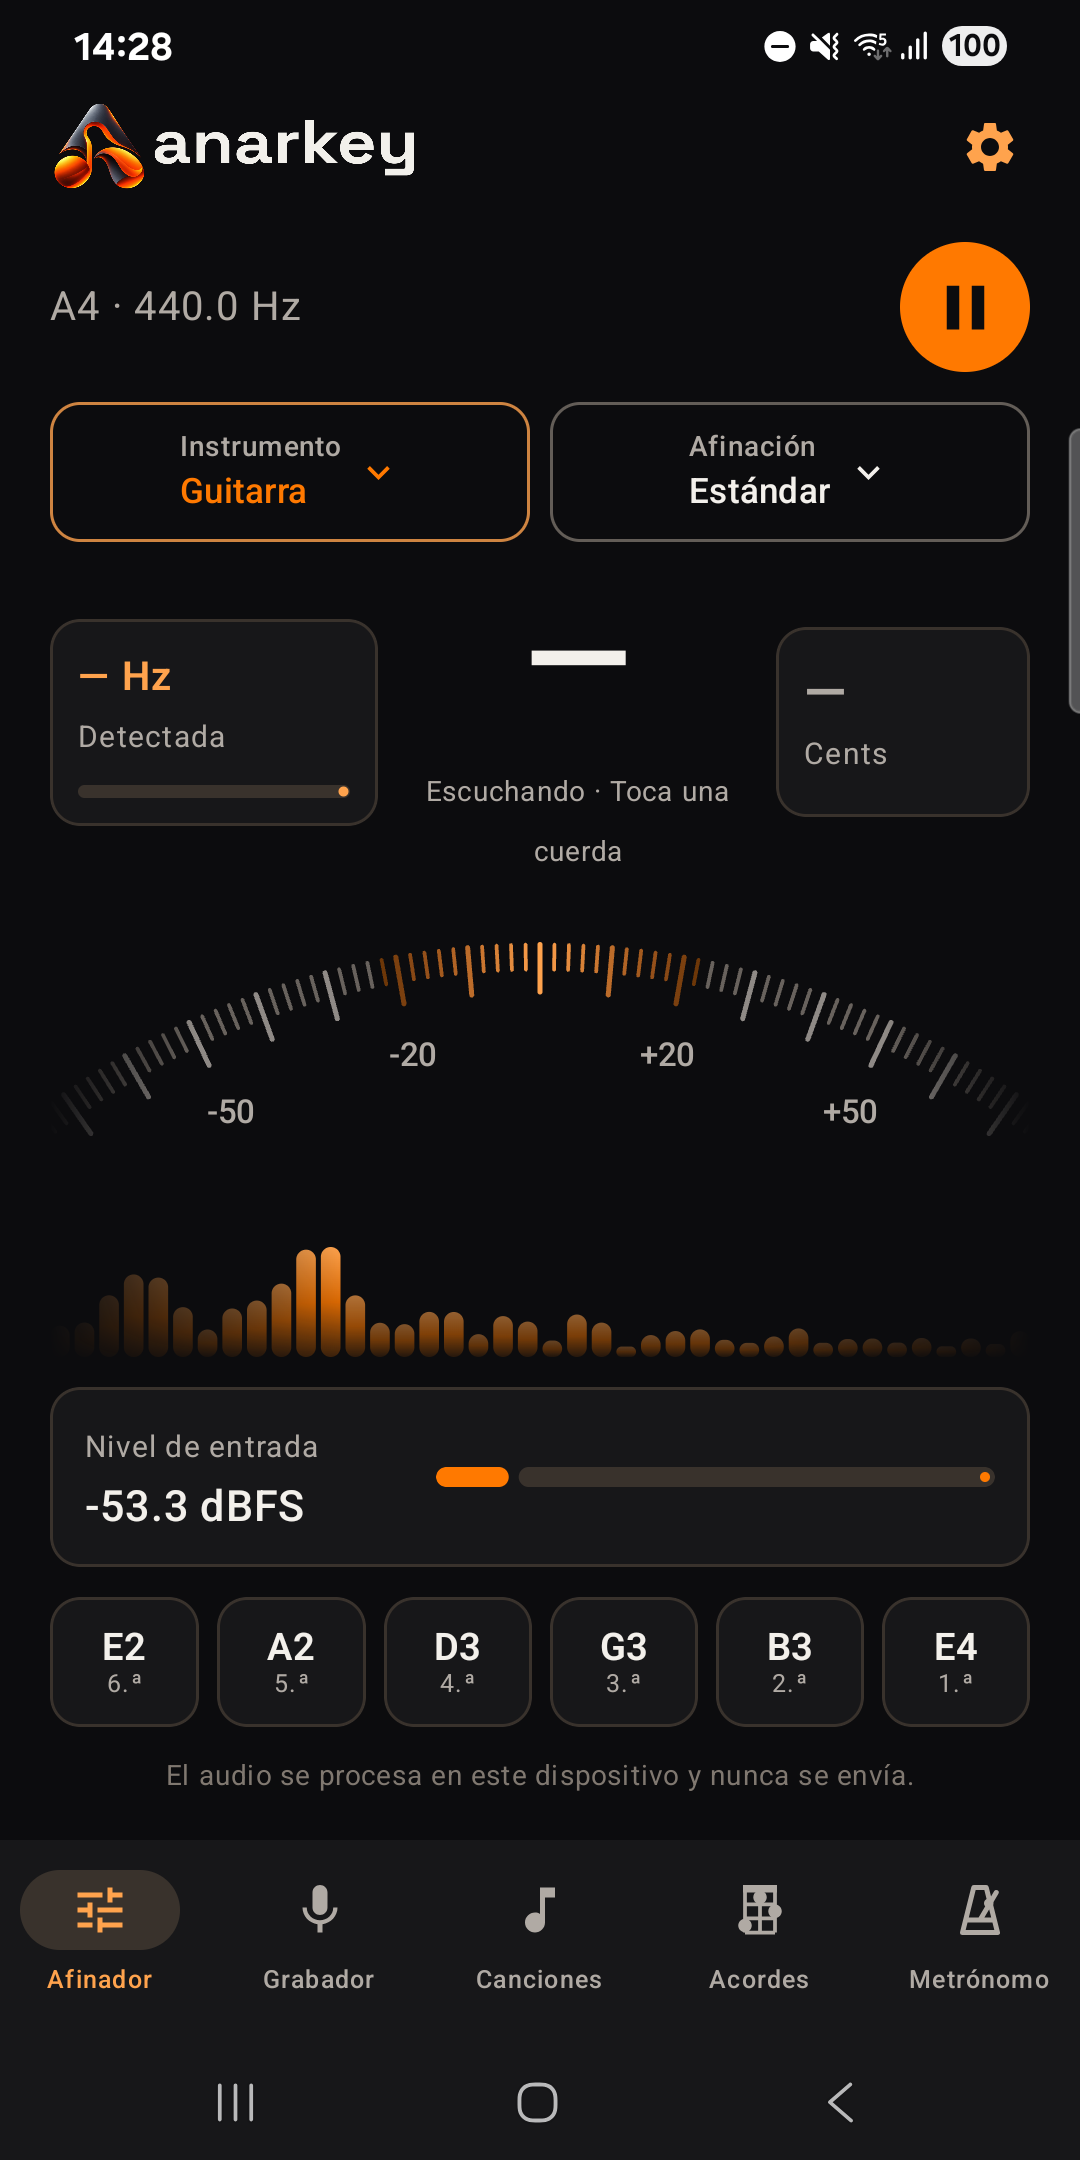
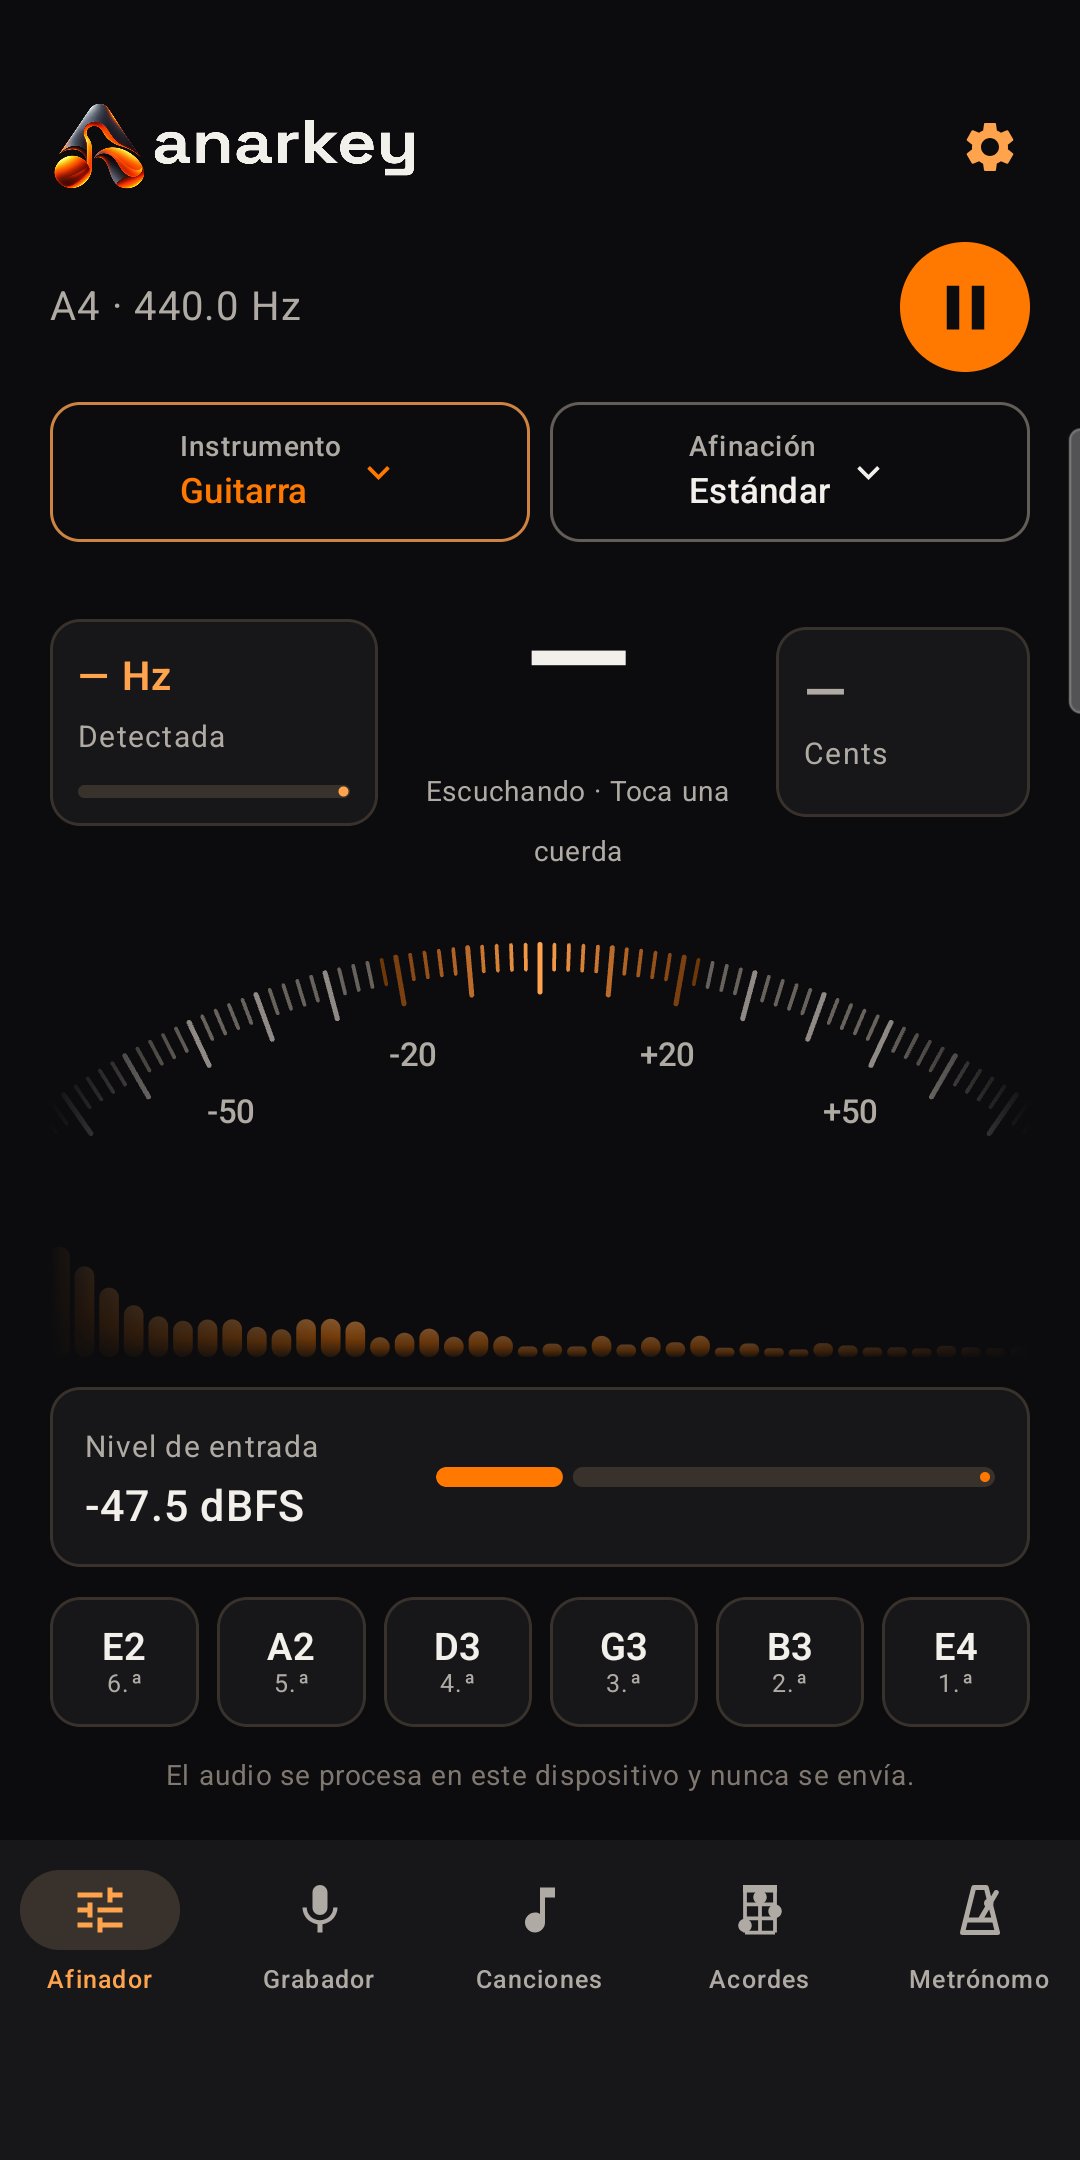
Replace store and website screenshots with a bilingual demo set of all sections

diff --git a/store/README.md b/store/README.md
@@ -17,7 +17,7 @@ in `docs/privacy/` and are served by GitHub Pages from the `docs/` folder of the
 |---|---|---|
 | `graphics/icon-512.png` | App icon | 512×512, 32-bit PNG |
 | `graphics/feature-graphic-1024x500.png` | Feature graphic | 1024×500, 24-bit PNG, no alpha |
-| `screenshots/es/*.png`, `screenshots/en/*.png` | Phone screenshots | 1080×2160 (2:1), 5 per language |
+| `screenshots/es/*.png`, `screenshots/en/*.png` | Phone screenshots (demo set) | 1080×2160 (2:1), 8 per language: home, tuner, chords, songs, song detail, recorder, recording, metronome |
 
 ## Texts (draft)
 
@@ -124,6 +124,17 @@ the release build. Upload them (for example as unlisted videos) and paste the li
 ## How the screenshots were taken
 
 Google rejects screenshots whose long side is more than twice the short one, and the test phone is 20:9.
-The phone display was set to 1080×2160 with a density of 400 so every screen fits, the status bar was
-cleaned, and the display settings were restored afterwards. The tuner screenshot shows the listening state:
-a detected note needs a real instrument.
+The phone display was set to 1080×2160 with a density of 400 so every screen fits, and the display
+settings were restored afterwards.
+
+- **Demo data only.** They come from the `debug` build (`org.anarkey.app.dev`, separate data) with public
+  domain songs and two recordings made from the app's own chord playback, so no personal recording or
+  data is visible. Never take them from the `release` build.
+- **Language.** The app language was switched to English or Spanish (`adb shell cmd locale
+  set-app-locales org.anarkey.app.dev --locales en`) and the recording and section names were typed in
+  that language.
+- **System bars.** The phone's status bar (clock, notification and microphone indicators) and navigation
+  bar were painted over with the app background colour, so nothing from the device shows.
+- **Tuner.** It shows the listening state: a detected note needs a real instrument.
+- **Website.** `docs/assets/{tuner,chords,recorder,metronome}-{es,en}.png` are copies of these files.
+  Replace them together when the interface changes.
